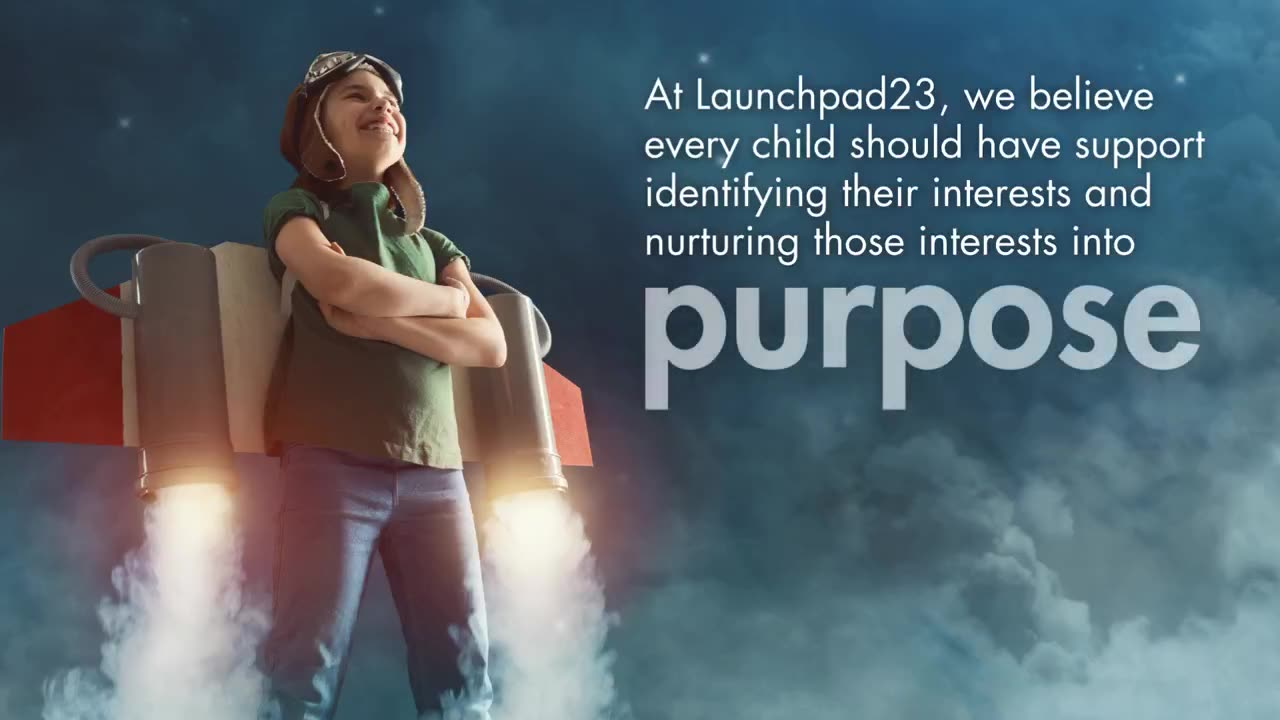
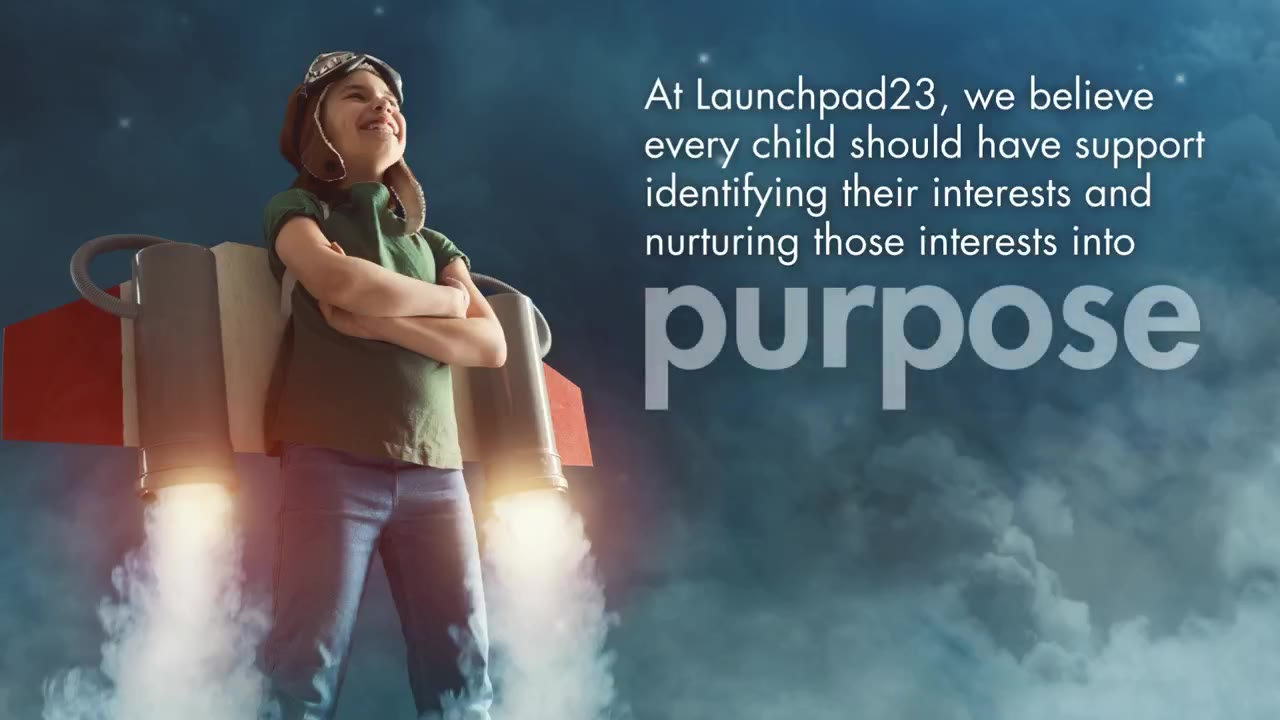
Home: video as hero with headline above; narrow site to 960px panels; reduced-motion support
Claude-Session: https://claude.ai/code/session_014HmNdr3VxQawy5eSxt28rV

Changed region(s): [[0.5, 0.3972, 0.9375, 0.5806]]

diff --git a/_src/pages/index.html b/_src/pages/index.html
@@ -1,18 +1,10 @@
 title: Launchpad23 | Let's get our children future ready
 description: Learn more about Launchpad23 programs for families, including how our weekly launches work, what they cost, and how to reserve your child's seat.
 ---
-<section class="hero-wrap"><div class="wrap"><div class="hero-split">
-  <div class="hero-text">
-    <h1>Let's get our children future ready.</h1>
-  </div>
-  <div class="hero-photo"><img src="img/home-hero.jpg" alt="A group of smiling children with their arms around each other" width="1800" height="1012"></div>
+<section class="hero-wrap"><div class="wrap"><div class="hero-video">
+  <h1>Let's get our children future ready.</h1>
+  <video class="promo" src="video/home.mp4" poster="video/home-poster.jpg" muted loop playsinline controls preload="metadata" aria-label="Launchpad23 introduction video"></video>
 </div></div>
-</section>
-
-<section class="video-section band">
-  <div class="wrap">
-    <video class="promo" src="video/home.mp4" poster="video/home-poster.jpg" autoplay muted loop playsinline controls preload="metadata" aria-label="Launchpad23 introduction video"></video>
-  </div>
 </section>
 
 <section id="facts">

diff --git a/index.html b/index.html
@@ -49,18 +49,10 @@
 </header>
 
 <main id="main">
-<section class="hero-wrap"><div class="wrap"><div class="hero-split">
-  <div class="hero-text">
-    <h1>Let's get our children future ready.</h1>
-  </div>
-  <div class="hero-photo"><img src="img/home-hero.jpg" alt="A group of smiling children with their arms around each other" width="1800" height="1012"></div>
+<section class="hero-wrap"><div class="wrap"><div class="hero-video">
+  <h1>Let's get our children future ready.</h1>
+  <video class="promo" src="video/home.mp4" poster="video/home-poster.jpg" muted loop playsinline controls preload="metadata" aria-label="Launchpad23 introduction video"></video>
 </div></div>
-</section>
-
-<section class="video-section band">
-  <div class="wrap">
-    <video class="promo" src="video/home.mp4" poster="video/home-poster.jpg" autoplay muted loop playsinline controls preload="metadata" aria-label="Launchpad23 introduction video"></video>
-  </div>
 </section>
 
 <section id="facts">

diff --git a/css/site.css b/css/site.css
@@ -5,7 +5,7 @@
   --ink:#2b2f36; --text:#414141; --muted:#6b7080; --line:#e3e7ef;
   --bg:#ffffff; --soft:#f4f6fa; --warm:#fff7e8; --accent:#f2a33a;
   --radius:14px; --shadow:0 6px 24px rgba(18,48,95,.10);
-  --wrap:1120px;
+  --wrap:1004px;
 }
 *{box-sizing:border-box}
 html{scroll-behavior:smooth}
@@ -265,3 +265,8 @@ main>section.lost{background:transparent;padding:28px 0 40px;border-radius:0}
 main>section.lost>.wrap{background:var(--navy);padding:60px 48px 70px}
 body{min-height:100vh;display:flex;flex-direction:column}
 main{flex:1}
+
+/* Home: headline above the video, one navy panel */
+.hero-video{background:var(--navy);border-radius:var(--radius);overflow:hidden;box-shadow:0 8px 28px rgba(18,48,95,.18)}
+.hero-video h1{color:#fff;text-align:center;margin:0;padding:30px 24px 26px;font-size:clamp(1.7rem,3.4vw,2.6rem)}
+.hero-video .promo{border-radius:0;box-shadow:none}

diff --git a/js/site.js b/js/site.js
@@ -11,3 +11,10 @@
     document.addEventListener('click',function(){more.classList.remove('open');btn.setAttribute('aria-expanded','false');});
   }
 })();
+
+// Home video: autoplay silently, unless the visitor has asked their device to reduce motion
+(function(){
+  var v=document.querySelector('video.promo'); if(!v) return;
+  var reduce=window.matchMedia && window.matchMedia('(prefers-reduced-motion: reduce)').matches;
+  if(!reduce){ v.autoplay=true; var p=v.play(); if(p&&p.catch) p.catch(function(){}); }
+})();
